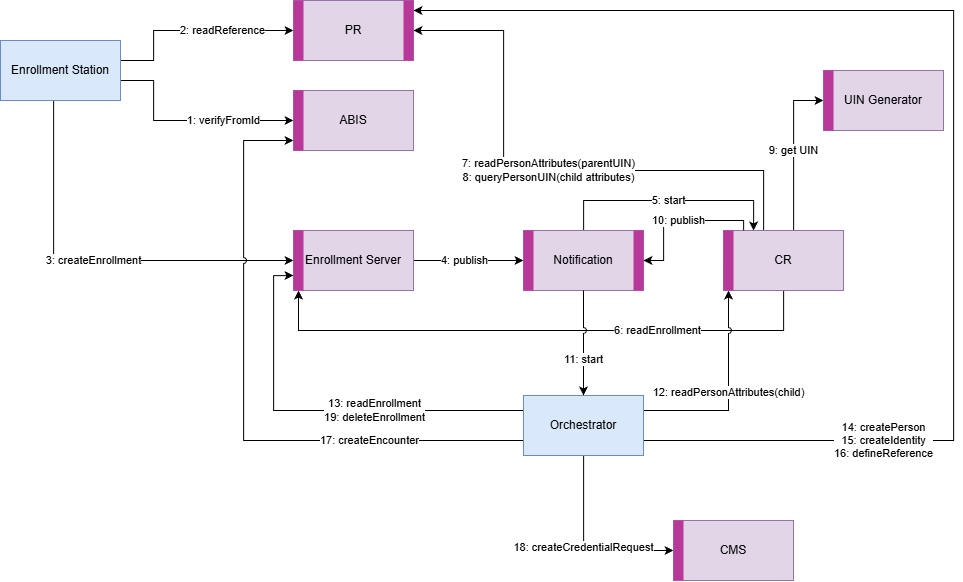
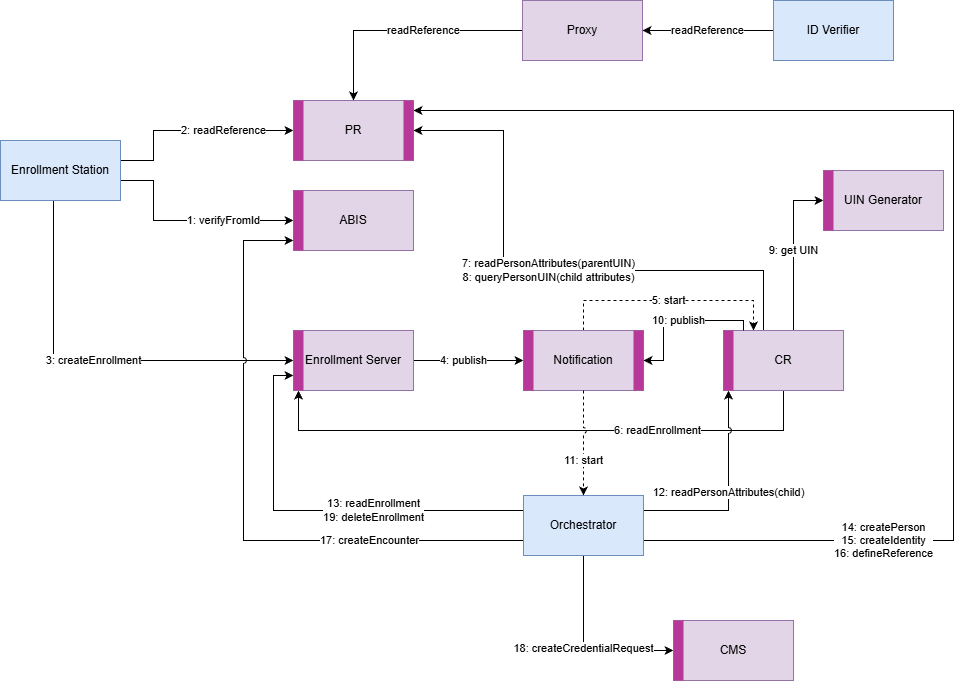
Add HAProxy instance as a unique entrypoint to N PR implementations

diff --git a/orchestrator/src/orchestrator/clients/cr.py b/orchestrator/src/orchestrator/clients/cr.py
@@ -12,7 +12,7 @@ logger = logging.getLogger('cr')
 #______________________________________________________________________________
 async def readPersonAttributes(url, transaction_id, person_id):
     params = {
-            'transactionId': transaction_id,
+            # 'transactionId': transaction_id,
             "attributeNames": ["firstName", "lastName", "dateOfBirth", "gender", "nationality"]
         }
     async with aiohttp.ClientSession() as session:

diff --git a/demos/enroll4birth/README.md b/demos/enroll4birth/README.md
@@ -192,6 +192,14 @@ No biographic data are included in the encounter.
     }
 ```
 
+ID Verification
+---------------
+
+Reference identity, including the portrait, can be retrieved from the
+Population Registry with a simple GET request::
+
+    curl -X GET http://<OSIA server>/v1/persons/<UIN>/reference?transactionId=<ID>
+
 Data Deletion
 -------------
 
